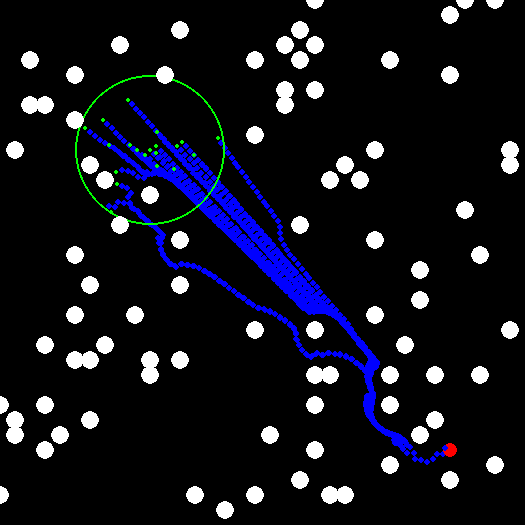
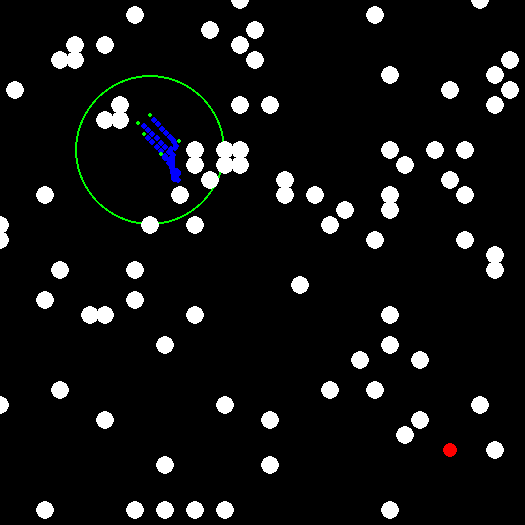
Start for multi-agent RAPF (level 3)

diff --git a/agent_algorithms/multi_agent_rapf.py b/agent_algorithms/multi_agent_rapf.py
@@ -1,8 +1,9 @@
 import numpy as np
 
-def pos_update(agent, environment, setup): 
-    # Step 1: Isolate all (artificial) obstacles that are within the view range
+def pos_update(agent, environment, setup, agent_positions): 
+    # Step 1: Isolate all (artificial) obstacles and agents that are within the view range
     obstacles_in_range = []
+    agents_in_range = []
     for obstacle in environment.obstacles:
         distance = ((agent.x - obstacle[0]) ** 2 + (agent.y - obstacle[1]) ** 2) ** 0.5
         if distance < setup.range:
@@ -11,18 +12,27 @@ def pos_update(agent, environment, setup):
         distance = ((agent.x - obstacle[0]) ** 2 + (agent.y - obstacle[1]) ** 2) ** 0.5
         if distance < setup.range:
             obstacles_in_range.append(obstacle)
+    for other_agent in agent_positions:
+        distance = ((agent.x - other_agent[0]) ** 2 + (agent.y - other_agent[1]) ** 2) ** 0.5
+        if distance < setup.range:
+            agents_in_range.append(other_agent)
 
     # Step 2: Define potential field equation
     def potential_field(x, y):
         target_potential = - setup.alpha_t * np.exp(-setup.mu_t * ((setup.target_x - x)**2 + (setup.target_y - y)**2))
         obstacle_potential = 0
+        agent_potential = 0
         for obstacle in obstacles_in_range:
             distance_squared = (obstacle[0] - x)**2 + (obstacle[1] - y)**2
             if distance_squared**0.5 < setup.obst_radius_inner:
                 obstacle_potential = float('inf')
             elif distance_squared**0.5 < setup.obst_radius_outer:
                 obstacle_potential += setup.alpha_o * np.exp(-setup.mu_o * distance_squared)
-        return target_potential + obstacle_potential
+        for other_agent in agents_in_range:
+            distance = ((x - other_agent[0]) ** 2 + (y - other_agent[1]) ** 2) ** 0.5
+            if distance < agent.radius * 2 * 1.5: # Added 50% safety margin (still needs to be decided how to handle things properly)
+                agent_potential = float('inf')
+        return target_potential + obstacle_potential + agent_potential
 
     # Step 3: Set bacteria points, find the minimum potential
     N_bacteria_RAPF = 16 ### Change this in setup.py later.

diff --git a/main.py b/main.py
@@ -8,10 +8,10 @@ import math
 
 #---------Change setup settings if not standard settings----------
 
-algorithm = 0
+algorithm = 5
 setup = Setup(algorithm)
 
-setup.nr_agents = 20
+setup.nr_agents = 5
 setup.start_radius = 5
 
 setup.visual = True     #Pygame to show run
@@ -58,12 +58,15 @@ running = True
 while not setup.target and running: 
 
     ind = 0
+    
 
     #Update posiiton of agents
     for i in agents: 
-
+        
+        agent_positions = [(j.x, j.y) for j in agents if not j == i] # Used for Level 3: agent-agent collision avoidance
+        
         #Update position 
-        i.update_position(env, setup)
+        i.update_position(env, setup, agent_positions)
 
         #Check whether agent has reached target
         i.target_check(env)
@@ -123,7 +126,7 @@ while not setup.target and running:
         for a in agents: 
             #Artificial position of agents 
             for obs in a.artificial_obstacles:
-                print("Trying to draw artificial obstacle")
+                #print("Trying to draw artificial obstacle")
                 pos = pg.Vector2((obs[0]*setup.scale), (obs[1]*setup.scale))
                 pg.draw.circle(screen, "yellow", pos, round(setup.agent_radius*setup.scale))
 

diff --git a/Agent.py b/Agent.py
@@ -4,6 +4,7 @@ from agent_algorithms import cr_bapf
 from agent_algorithms import cr_bapf_star
 from agent_algorithms import rapf 
 from agent_algorithms import a_star 
+from agent_algorithms import multi_agent_rapf
 import random 
 import math 
 from scipy.stats import truncnorm
@@ -105,7 +106,7 @@ class Agent:
 
     # Update position based on position and algorithm
 
-    def update_position(self, environment, setup): 
+    def update_position(self, environment, setup, agent_positions = None): 
         if self.algorithm == 0: 
             self.x, self.y = capf.pos_update(self, environment, setup)
         if self.algorithm == 1: 
@@ -119,6 +120,8 @@ class Agent:
                 a_star.initialize_path(self, environment, setup)
                 self.astar_init = True
             self.x, self.y = a_star.pos_update(self, environment, setup)
+        if self.algorithm == 5:
+            self.x, self.y = multi_agent_rapf.pos_update(self, environment, setup, agent_positions)
         
         #Append new location to the history list 
         self.pos_lst.append((self.x, self.y))
